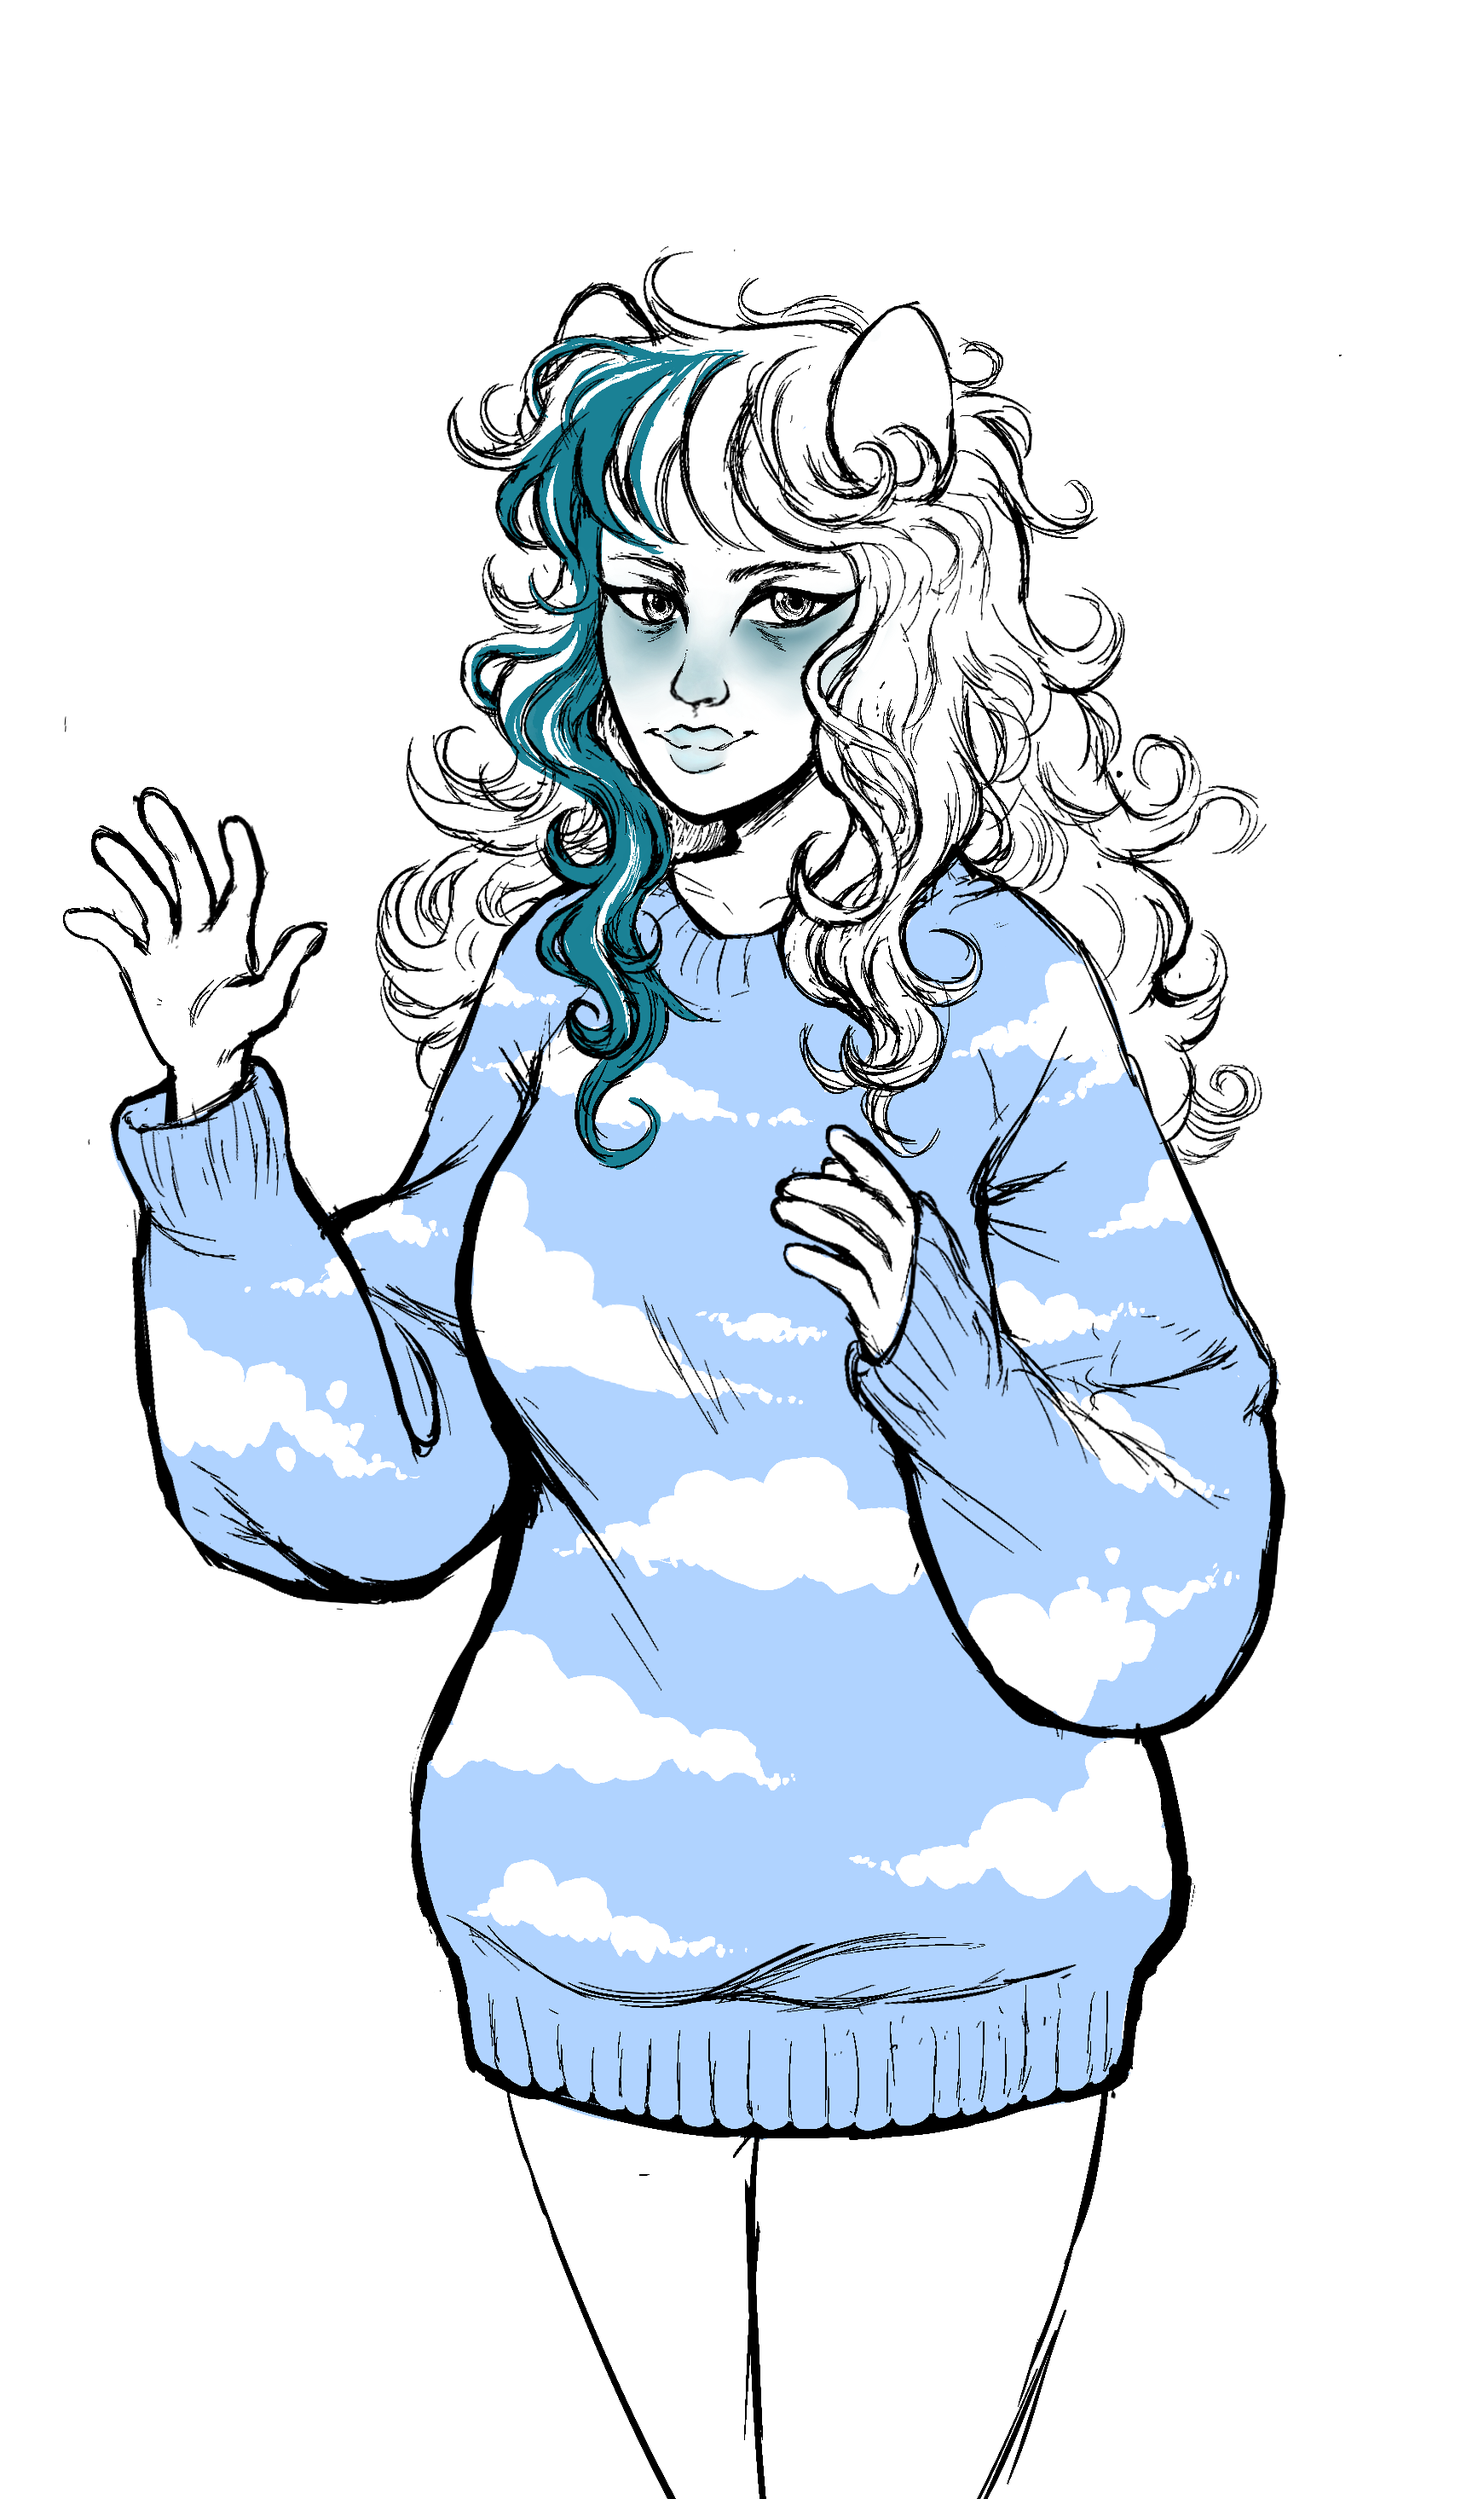
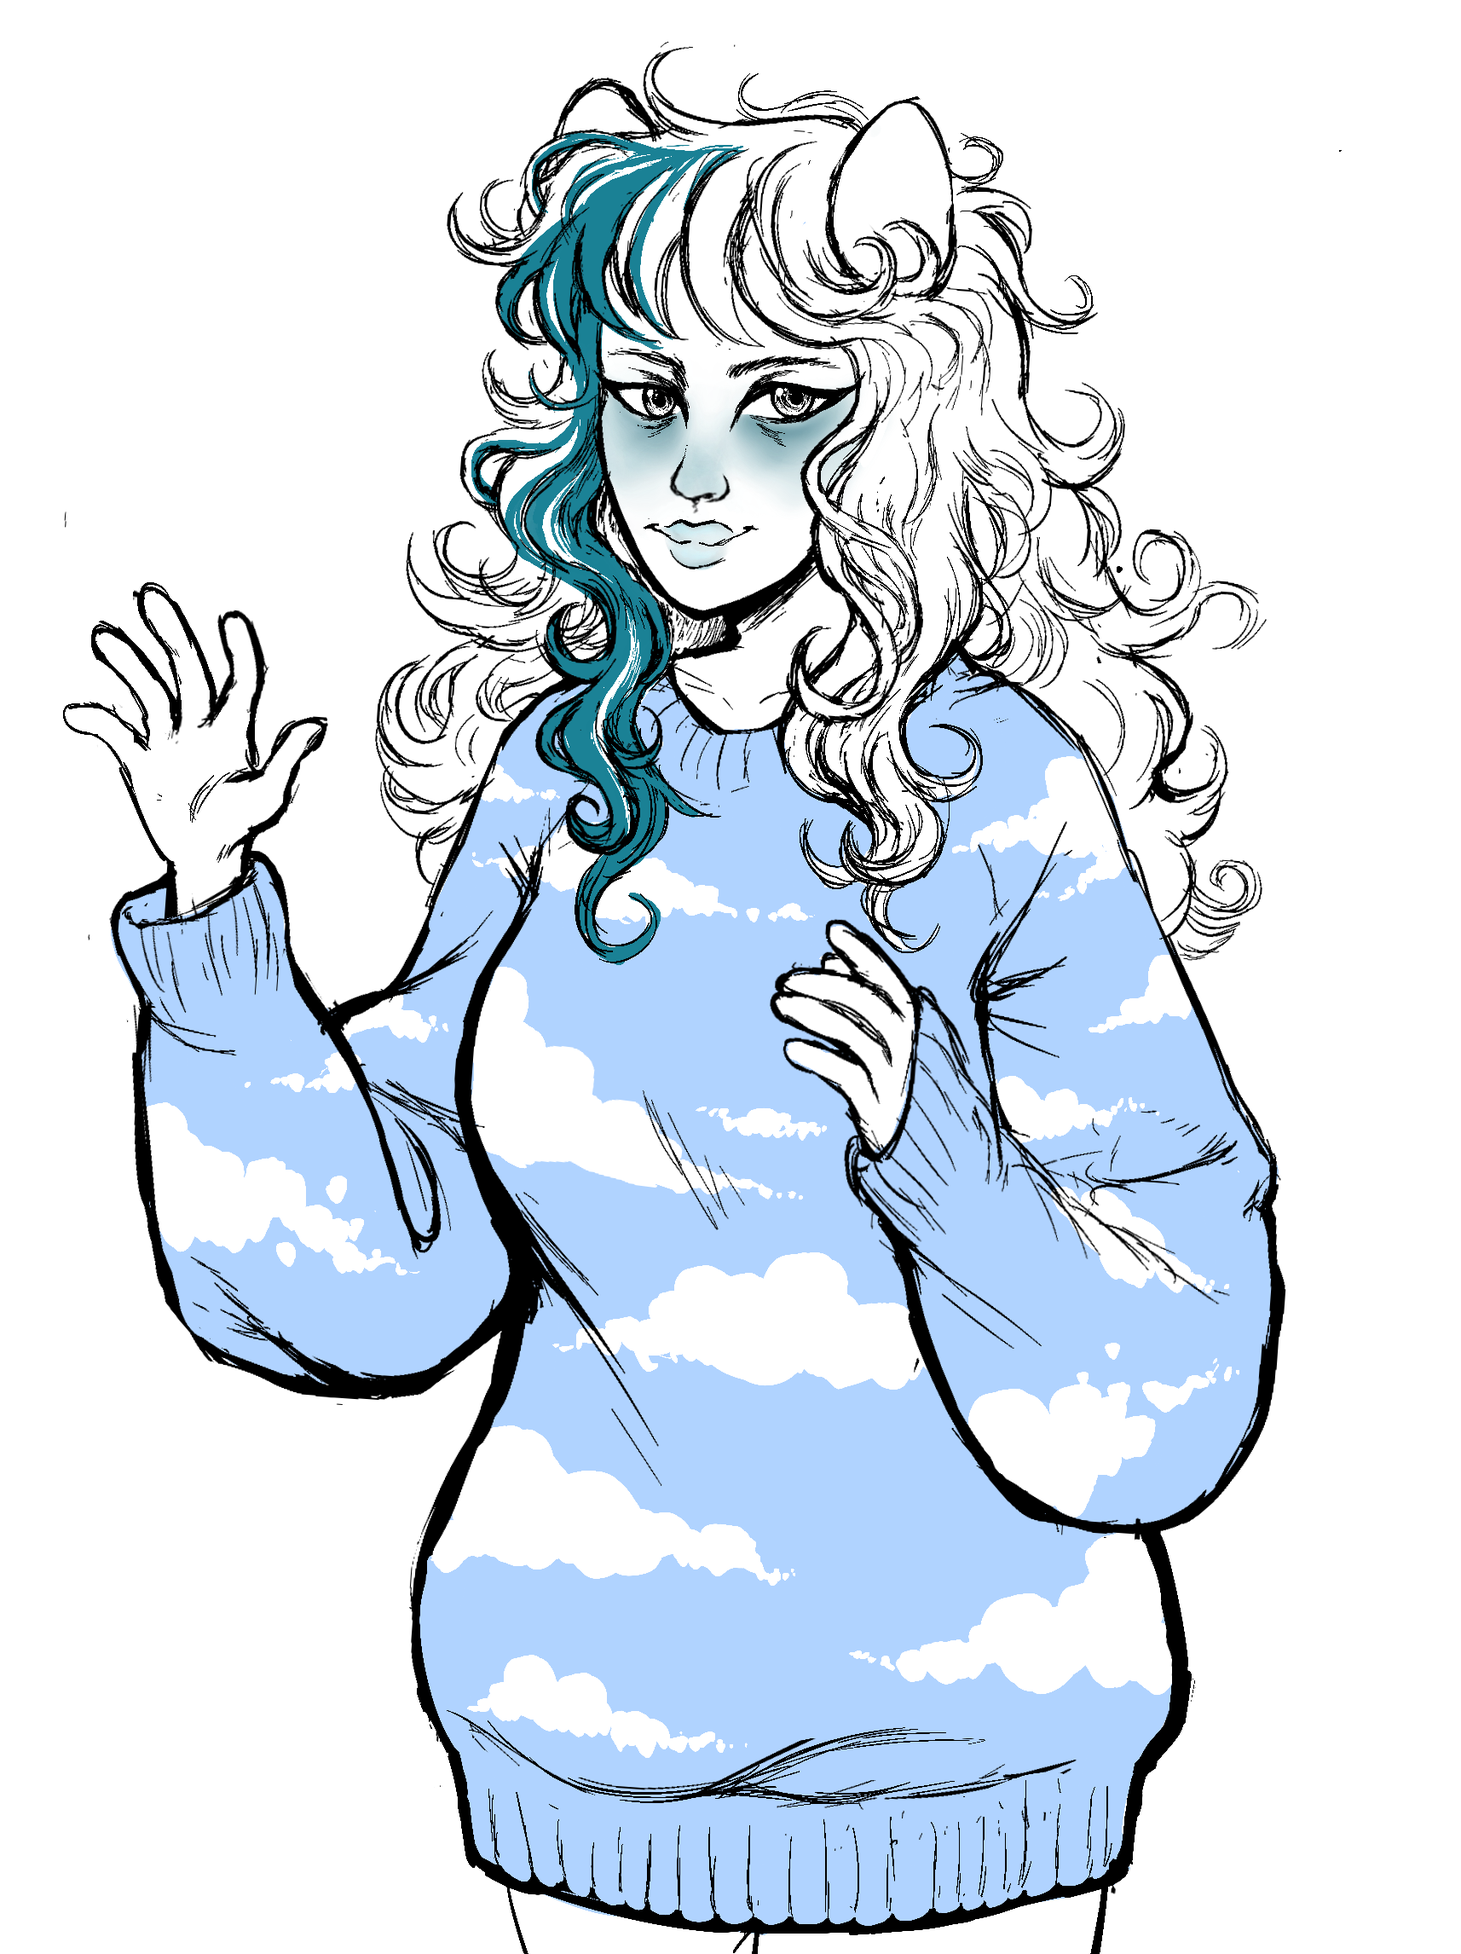
im addicted

diff --git a/illustration.html b/illustration.html
@@ -35,101 +35,95 @@
       
 
     <!-- Medical image gallery -->
-    <section
-      class="axis-image-row"
-      aria-label="Medical image gallery">
+   <section
+  class="axis-image-row"
+  aria-label="Medical image gallery">
 
-      <img
-        src="drawing%20things/CharliesRat.PNG"
-        alt="Vertical axis visualisation of heart anatomy"
-        data-title="Vertical Axis"
-        data-description="A visualisation of heart anatomy using SPECT imaging data."
-        loading="lazy">
+  <img
+    src="drawing%20things/_S7A5548.PNG"
+    alt="Artwork"
+    data-title="S7A5548"
+    data-description="Artwork."
+    loading="lazy">
 
-      <img
-       src="Graphic%20design/nhs_drug_stress_test_womenposter.jpg"
-        alt="Short axis visualisation of heart anatomy"
-        data-title="Short Axis"
-        data-description="A short-axis view of the anatomical data."
-        loading="lazy">
+  <img
+    src="drawing%20things/CharliesRat.PNG"
+    alt="The Rat I drew"
+    data-title="Tattoo Commission"
+    data-description="Intended for the forearm."
+    loading="lazy">
 
-      <img
-       src="Graphic%20design/nhs_armsupposter.png"
-        alt="Horizontal axis visualisation of heart anatomy"
-        data-title="Horizontal Axis"
-        data-description="A horizontal-axis view of the anatomical data."
-        loading="lazy">
+  <img
+    src="drawing%20things/Haidra_comm.PNG"
+    alt="Haidra artwork"
+    data-title="Haidra Commission"
+    data-description="Artwork commission."
+    loading="lazy">
 
-           <img
-       src="Graphic%20design/Tall_poster.png"
-        alt="Horizontal axis visualisation of heart anatomy"
-        data-title="Horizontal Axis"
-        data-description="A horizontal-axis view of the anatomical data."
-        loading="lazy">
+  <img
+    src="drawing%20things/Haidra_comm2.PNG"
+    alt="Haidra artwork"
+    data-title="Haidra Commission 2"
+    data-description="Artwork commission."
+    loading="lazy">
 
-<img 
-  src="Graphic%20design/Sanctuary/modellingart.jpg" 
-  alt="Sanctuary modelling artwork" 
-  data-title="Modelling Art" 
-  data-description="Sanctuary Editorial collage: Runway Photography." 
-  loading="lazy">
+  <img
+    src="drawing%20things/heartpainting.PNG"
+    alt="Heart painting"
+    data-title="Heart Painting"
+    data-description="A painting of the heart."
+    loading="lazy">
 
+  <img
+    src="drawing%20things/IMG_1181.PNG"
+    alt="Artwork"
+    data-title="IMG 1181"
+    data-description="Artwork."
+    loading="lazy">
 
-<img 
-  src="Graphic%20design/Sanctuary/sanctuary1poster.PNG" 
-  alt="Sanctuary poster design one" 
-  data-title="Sanctuary Poster 1" 
-  data-description="The first poster design created for the Sanctuary project." 
-  loading="lazy">
+  <img
+    src="drawing%20things/IMG_7217.JPG"
+    alt="Artwork"
+    data-title="IMG 7217"
+    data-description="Artwork."
+    loading="lazy">
 
-<img 
-  src="Graphic%20design/Sanctuary/sanctuary2poster.jpg" 
-  alt="Sanctuary poster design two" 
-  data-title="Sanctuary Poster 2" 
-  data-description="The second poster design created for the Sanctuary project." 
-  loading="lazy">
+  <img
+    src="drawing%20things/IMG_7218.JPG"
+    alt="Artwork"
+    data-title="IMG 7218"
+    data-description="Artwork."
+    loading="lazy">
 
-<img 
-  src="Graphic%20design/Sanctuary/modellingart.jpg" 
-  alt="Sanctuary modelling artwork" 
-  data-title="Modelling Art" 
-  data-description="3D modelling artwork created as part of the Sanctuary project." 
-  loading="lazy">
+  <img
+    src="drawing%20things/IMG_7219.JPG"
+    alt="Artwork"
+    data-title="IMG 7219"
+    data-description="Artwork."
+    loading="lazy">
 
-<img 
-  src="Graphic%20design/Sanctuary/sanctuary_thumbnail.png" 
-  alt="Sanctuary project thumbnail" 
-  data-title="Sanctuary" 
-  data-description="A visual preview of the Sanctuary project." 
-  loading="lazy">
+  <img
+    src="drawing%20things/IMG_7992.PNG"
+    alt="Artwork"
+    data-title="IMG 7992"
+    data-description="Artwork."
+    loading="lazy">
 
-<img 
-  src="Graphic%20design/Sanctuary/sanctuary3poster.jpg" 
-  alt="Sanctuary poster design three" 
-  data-title="Sanctuary Poster 3" 
-  data-description="The third poster design created for the Sanctuary project." 
-  loading="lazy">
-  
-  <img 
-  src="Graphic%20design/Sanctuary/ajpromo.jpg" 
-  alt="AJ promotional artwork for Sanctuary" 
-  data-title="AJ Promo" 
-  data-description="Promotional artwork created for the Sanctuary project." 
-  loading="lazy">
+  <img
+    src="drawing%20things/IMG_E0439.JPG"
+    alt="Artwork"
+    data-title="IMG E0439"
+    data-description="Artwork."
+    loading="lazy">
 
-<img 
-  src="Graphic%20design/Sanctuary/sanctuaryflyer.jpg" 
-  alt="Sanctuary flyer design" 
-  data-title="Sanctuary Flyer" 
-  data-description="A promotional flyer created for the Sanctuary project." 
-  loading="lazy">
+  <img
+    src="drawing%20things/TallFriend.PNG"
+    alt="An unfathomable creature"
+    data-title="A Trapeze into Cryptozoology"
+    data-description="An intricate horn design for a worldly beast."
+    loading="lazy">
 
-  <img 
-  src="Graphic%20design/Sanctuary/sanctuaryadvertisement.jpg" 
-  alt="Sanctuary flyer design" 
-  data-title="Sanctuary Flyer" 
-  data-description="A promotional flyer created for the Sanctuary project." 
-  loading="lazy">
+</section>
 
 
 
